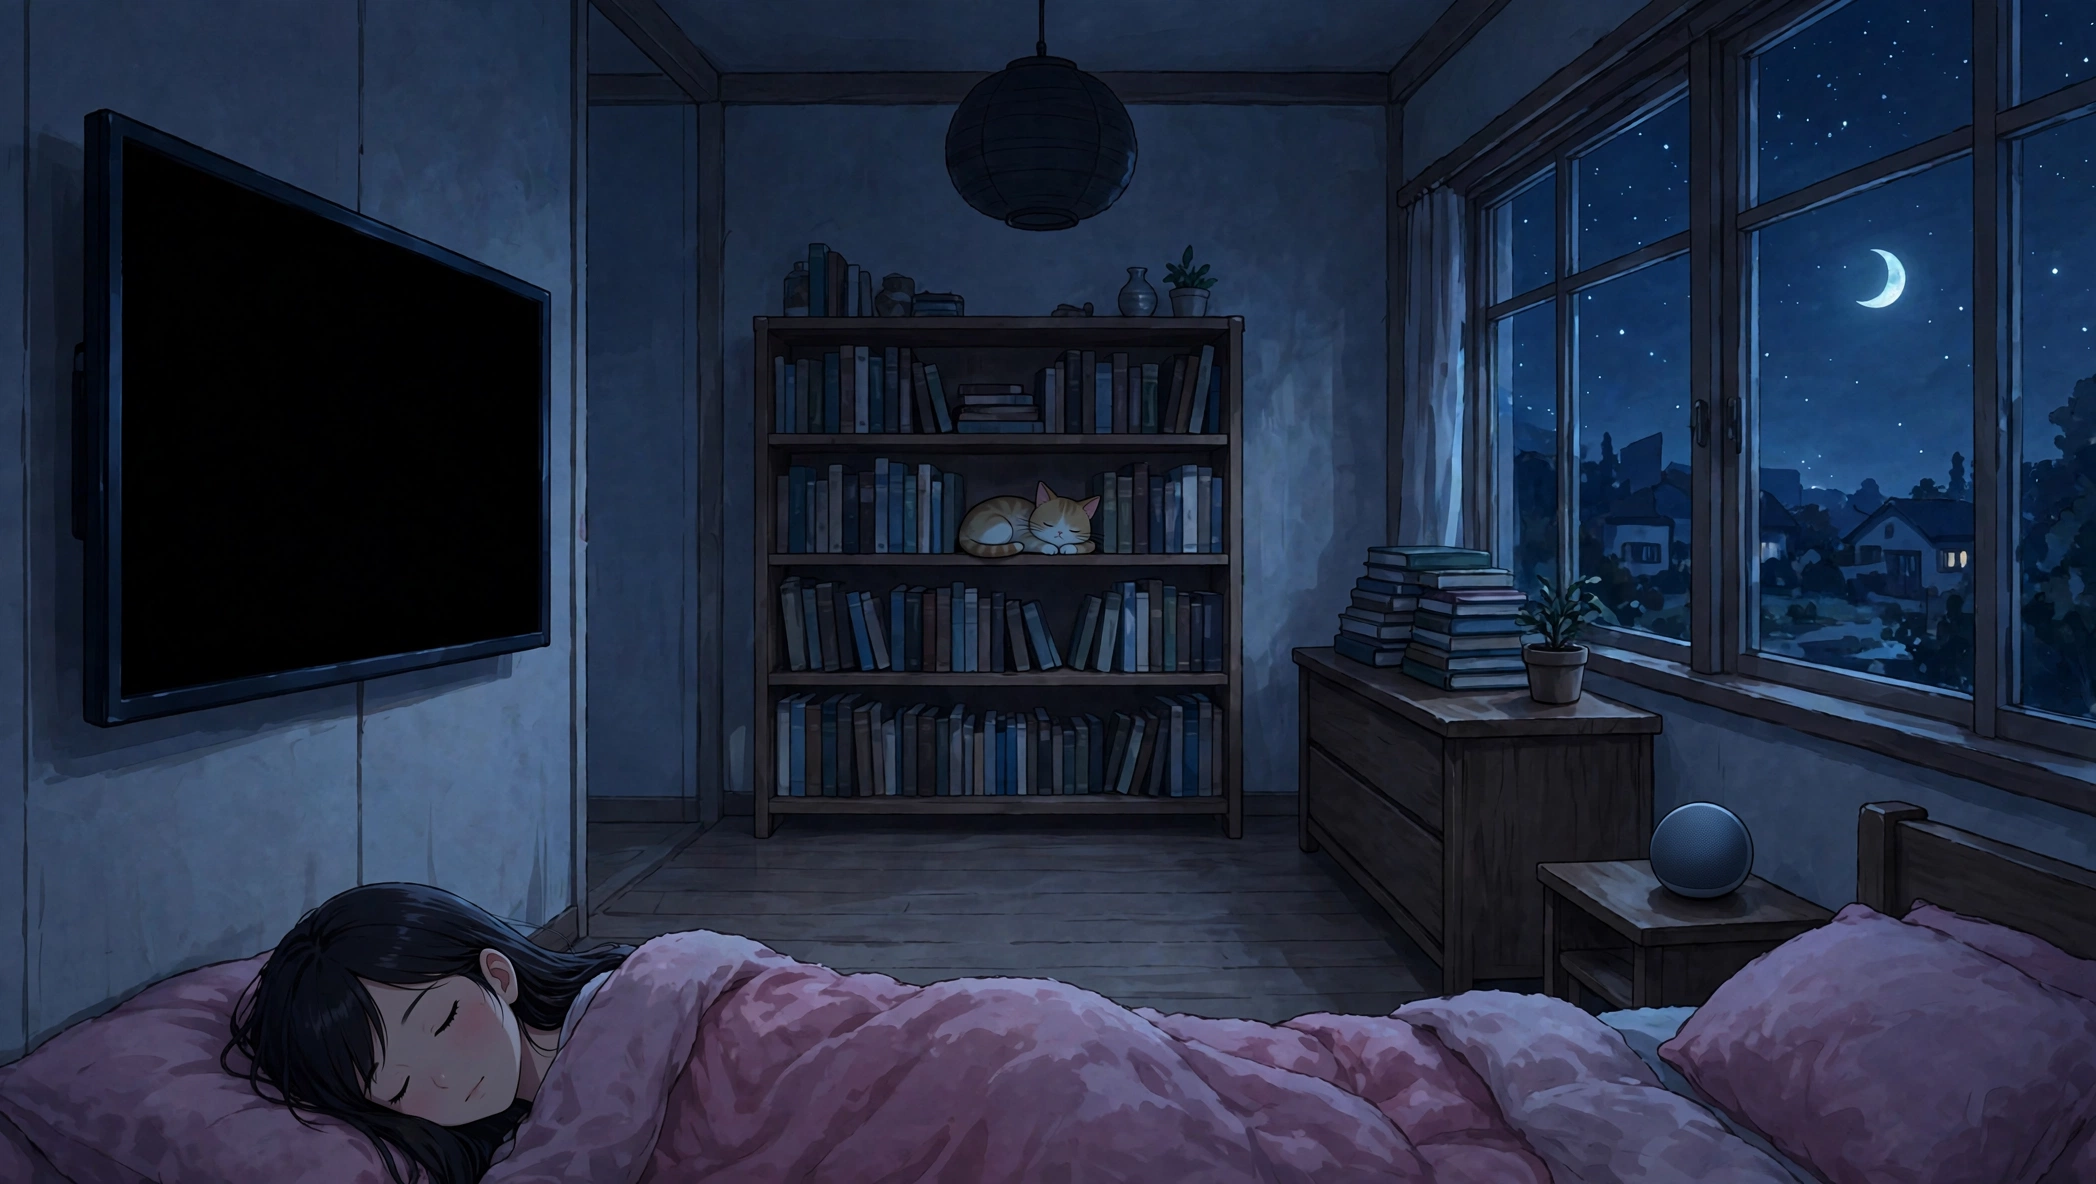
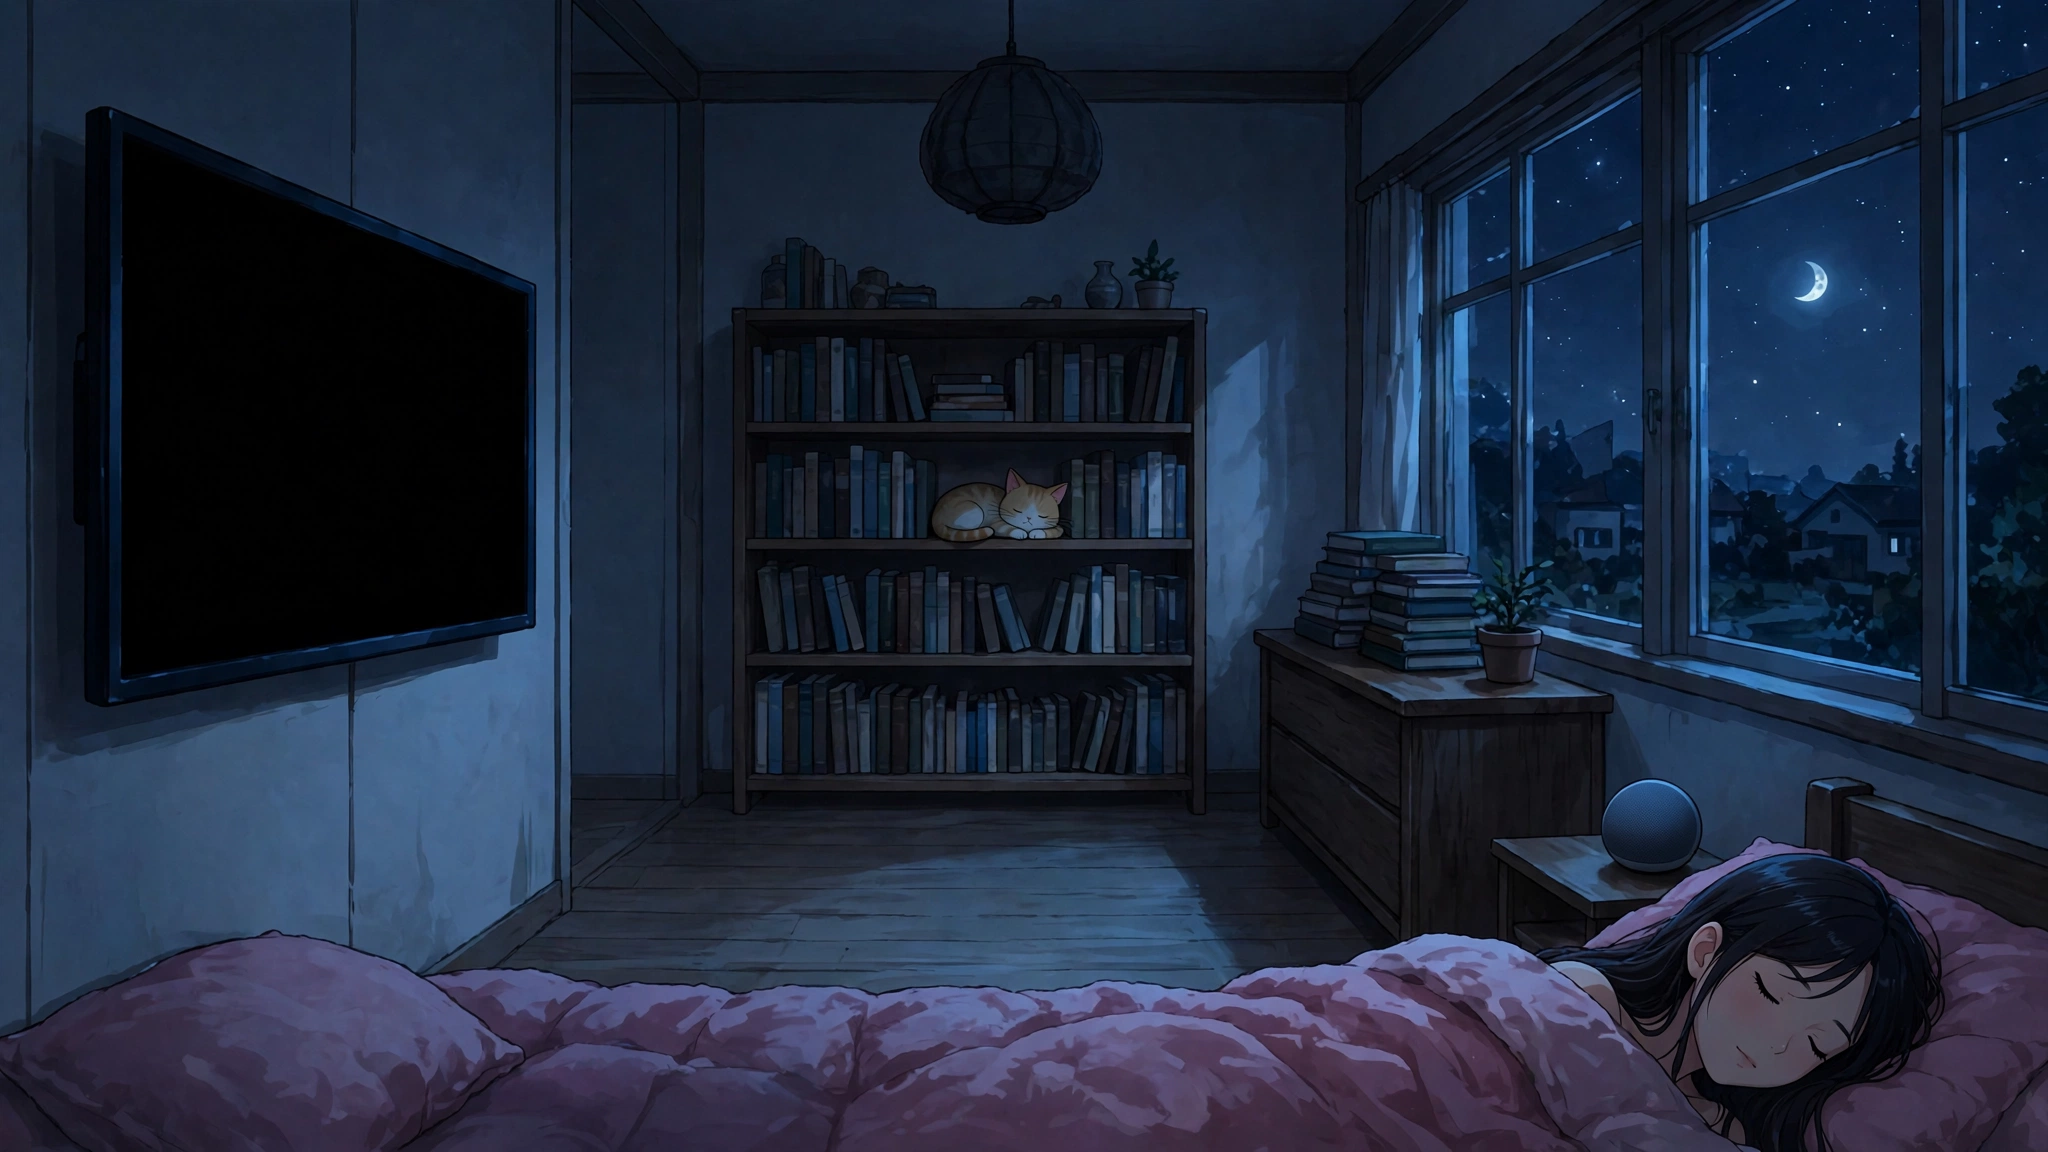
Room3 sleep plate: Lyra on the correct side of the bed
Daniel caught the first sleep plate with her head on the left
(foot-end) pillow. Regenerated from the same base with her
asleep on the right pillow against the headboard; Zzz spawn
anchor moved to her new head position (left 81-84%, top 72-75%).

diff --git a/web/index.html b/web/index.html
@@ -260,7 +260,7 @@ window._lyra = { state: null, _sh: [], _jh: [],
     var z = document.createElement('span');
     z.className = 'zzz';
     z.textContent = 'Z';
-    z.style.left = (20 + Math.random() * 4) + '%';
+    z.style.left = (81 + Math.random() * 3) + '%';
     z.style.top = (72 + Math.random() * 3) + '%';
     z.style.fontSize = (28 + Math.random() * 6) + 'px';
     z.addEventListener('animationend', function () { z.remove(); });
